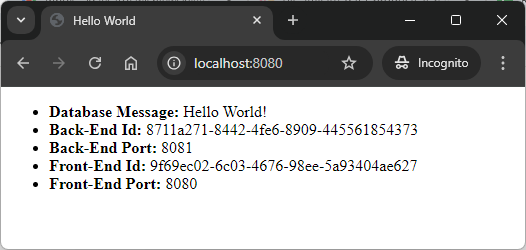
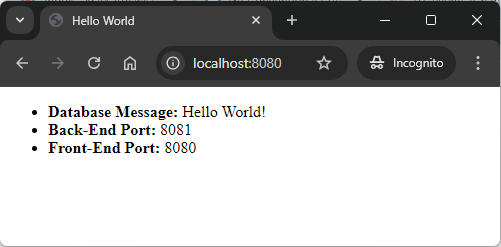
Update Readme file

diff --git a/others/services/fe-thymeleaf-be-springboot-db-sql-mysql/fe-thymeleaf-be-springboot-db-sql-mysql_BE/src/main/java/com/example/services/HelloWorldService.java b/others/services/fe-thymeleaf-be-springboot-db-sql-mysql/fe-thymeleaf-be-springboot-db-sql-mysql_BE/src/main/java/com/example/services/HelloWorldService.java
@@ -24,7 +24,7 @@ public class HelloWorldService {
         
         HelloWorldEntity helloWorldEntity = helloWorldRepository.findById(id).orElseThrow(() -> new RuntimeException("Message doesn't exist"));
         String portBe = environment.getProperty("local.server.port");
-        return new HelloWorldDto(helloWorldEntity.getId(), helloWorldEntity.getText(), idBe, portBe);
+        return new HelloWorldDto(helloWorldEntity.getId(), helloWorldEntity.getText(), portBe);
 
     }
 

diff --git a/others/services/fe-thymeleaf-be-springboot-db-sql-mysql/README.md b/others/services/fe-thymeleaf-be-springboot-db-sql-mysql/README.md
@@ -23,7 +23,7 @@ USAGE MANUAL
 1. In the second command line tool **start Back-End application** with `mvn -f ./fe-thymeleaf-be-springboot-db-sql-mysql_BE spring-boot:run`
 1. In the third command line tool **start Front-End application** with `mvn -f ./fe-thymeleaf-be-springboot-db-sql-mysql_FE spring-boot:run`
 1. In a browser visit `http://localhost:8080`
-   * Expected HTML page with **Database Message**, **Back-End Id**, **Back-End Port**, **Front-End Id** and **Front-End Port** 
+   * Expected HTML page with **Database Message**, **Back-End Port** and **Front-End Port** 
 1. Clean up environment 
      * In the third command line tool **stop Front-End application** with `ctrl + C`
      * In the second command line tool **stop Back-End application** with `ctrl + C`
@@ -59,7 +59,7 @@ USAGE DOCKER
 1. In a command line tool build **Docker image FE** with `docker build -f fe-thymeleaf-be-springboot-db-sql-mysql_FE/Dockerfile -t fe-image:0.0.1 ./fe-thymeleaf-be-springboot-db-sql-mysql_FE`
 1. In a command line tool build and start **Docker container FE** with `docker run -p 8080:8080 --name fe-container --network helloworld-network -e baseurl.be=http://be-container:8081 -d fe-image:0.0.1`
 1. In a browser visit `http://localhost:8080`
-   * Expected HTML page with **Database Message**, **Back-End Id**, **Back-End Port**, **Front-End Id** and **Front-End Port** 
+   * Expected HTML page with **Database Message**, **Back-End Port** and **Front-End Port**  
 1. Clean up environment 
      * In a command line tool stop and remove **BE Docker container** with `docker rm -f fe-container`
      * In a command line tool remove **BE Docker image** with `docker rmi fe-image:0.0.1`
@@ -96,7 +96,7 @@ USAGE DOCKER COMPOSE
 ##### Required steps:
 1. In a command line tool **start Docker containers** with `docker-compose up -d --build`
 1. In a browser visit `http://localhost:8080`
-   * Expected HTML page with **Database Message**, **Back-End Id**, **Back-End Port**, **Front-End Id** and **Front-End Port** 
+   * Expected HTML page with **Database Message**, **Back-End Port** and **Front-End Port** 
 1. Clean up environment 
      * In a command line tool **remove Docker containers** with `docker-compose down --rmi all`
 
@@ -131,7 +131,7 @@ USAGE KUBERNETES (MINIKUBE)
 1. In the second command line tool **check status of Kubernetes Pods** with `kubectl get pods`
    * Expected mysql, be and fe as **READY 1/1** (it can take few minutes)
 1. In the first command line tool **with administrator privileges** display FE service in a Browser with `minikube service fe`
-   * Expected HTML page with **Database Message**, **Back-End Id**, **Back-End Port**, **Front-End Id** and **Front-End Port**
+   * Expected HTML page with **Database Message**, **Back-End Port** and **Front-End Port** 
 1. Clean up environment 
      * In the second command line tool **remove Kubernetes Pods** with `kubectl delete -f kubernetes.yaml`
      * In the first command line tool **with administrator privileges** stop **Minikube** with `minikube stop`
